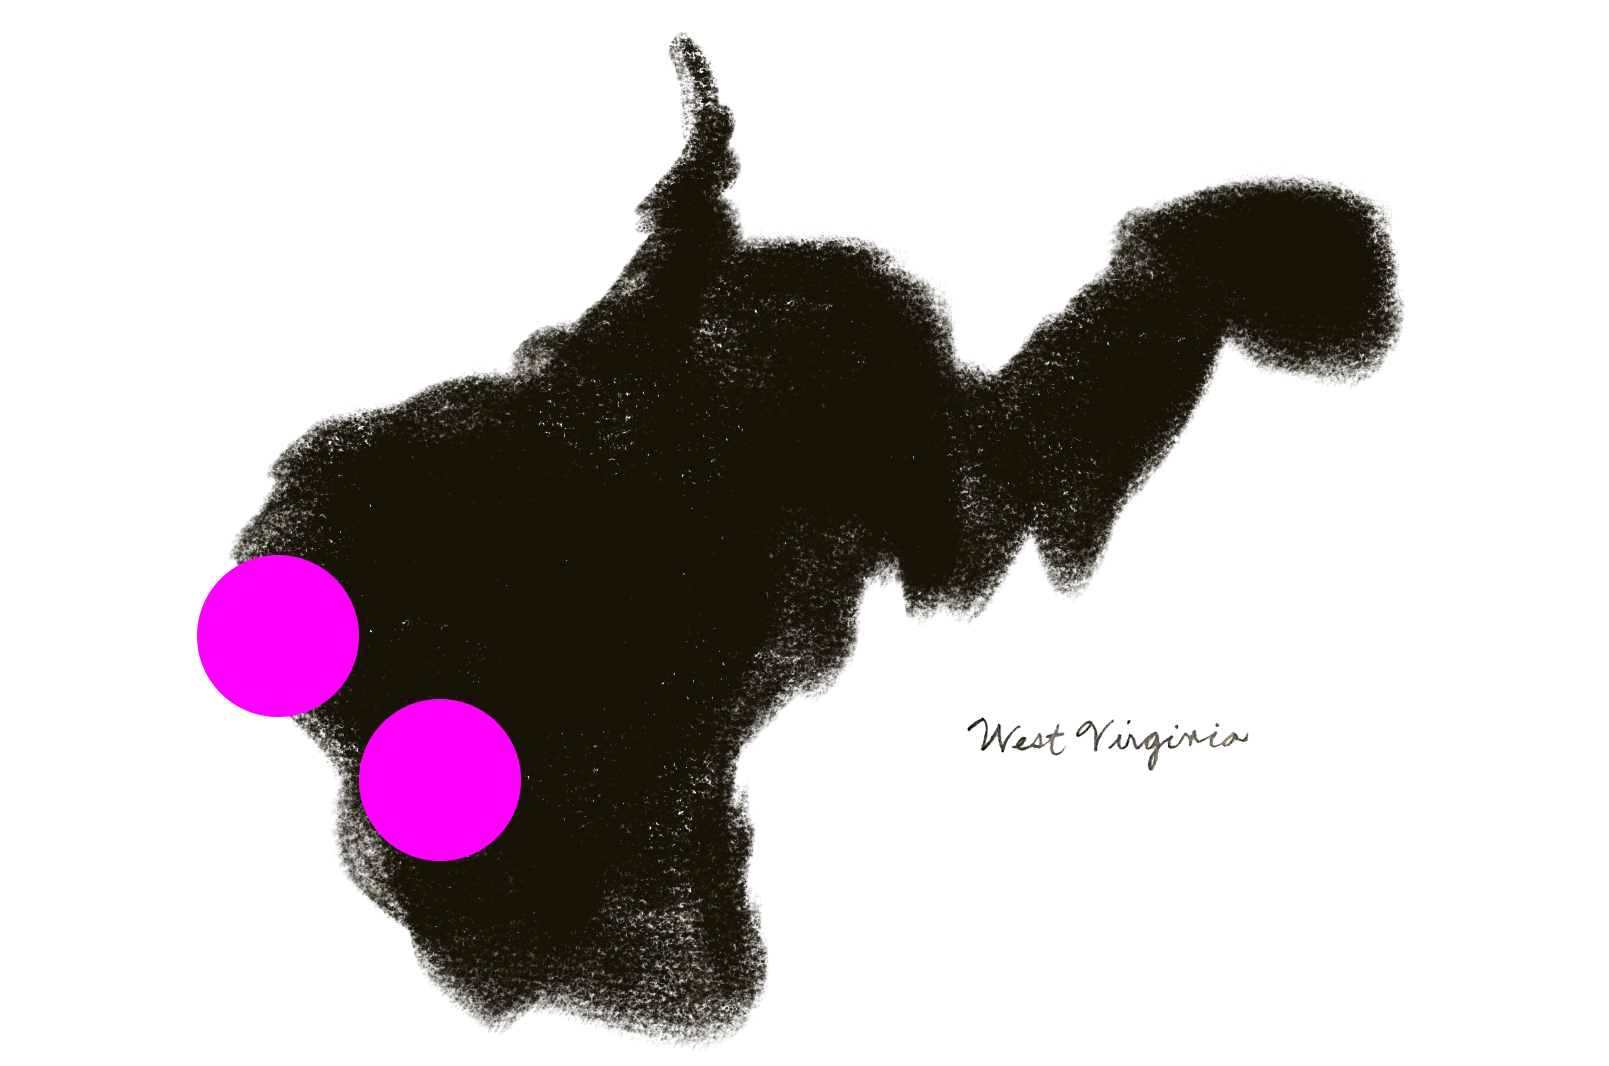
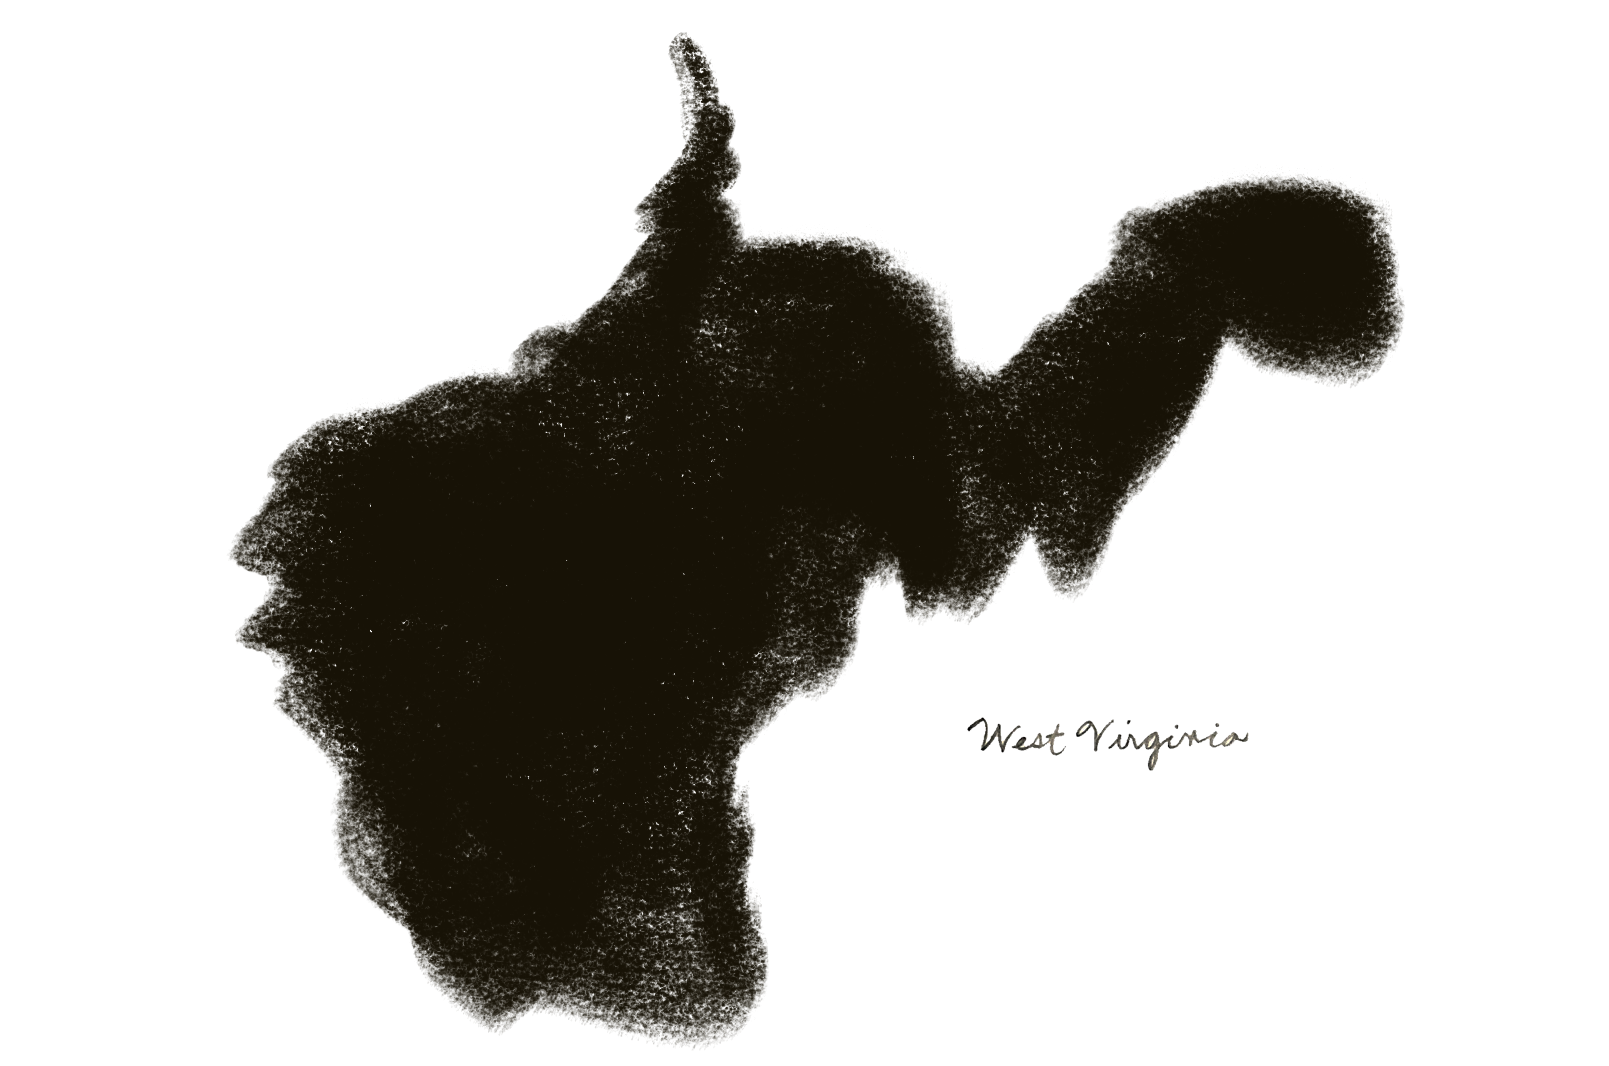
new new

Changed region(s): [[0.1243, 0.4953, 0.3418, 0.8049]]

diff --git a/mich.html b/mich.html
@@ -17,7 +17,7 @@
             margin: 0px; 
             width: 100vw; 
             font-family: baskerville; 
-            background-color: #F5F5F5; 
+            background-color: #ebeae1ff; 
         } 
         @keyframes fadeInAnimation { 
             0% { 
@@ -155,12 +155,23 @@
 		/*color: grey; */
 	}
 	#dot-01{
-		position: absolute;
-    background-color: #00FF00;
-    top: 10vw;
-    left: 13vw;
+		position: absolute;    
+   		top: 10vw;
+    	left: 13vw;
 	}
+	#dot-02{
+		position: absolute;    
+    	margin-left: 41vw;
+    	margin-top: 0vh; 
+
+	}
+	#dot-03{
+		position: absolute;
+    	margin-left: 53vw;
+    	margin-top: 8vh;
+    }
 	.dot {	
+		background-color: #00FF00;
 	  width: 5.5vw;
 	  height: 5.5vw;
 	  border-radius: 8vw;
@@ -173,8 +184,8 @@
 		margin-bottom: 15vh; 
 	}
 	#state img{
-		width: 65%; 
-		margin-left: 30%; 
+		width: 75%; 
+		margin-left: 12.5%; 
 
 	}
 	#copyright{
@@ -256,7 +267,7 @@
     hyphens: auto; 
     margin-top: 10vh; 
     margin-left: 10vw;
-    margin-bottom: -15vh;
+    margin-bottom: 15vh;
     font-size: 1.3vw;
     line-height: 1.8vw; 
   }
@@ -453,13 +464,16 @@
 <div class="timeline02"></div>
 <a href="index.html"><img id="close" src="images/close.png"></a>
 
+<!-- intro -->
+
 <img id="title" src="images/michigan-01.png">
 
-<p id="blurb-01">Lorem ipsum dolor sit amet, consectetuer adipiscing elit, sed diam nonummy nibh euismod tincidunt ut laoreet dolore magna aliquam erat volutpat. Ut wisi enim ad minim veniam, quis nostrud exerci tation ullamcorper suscipit lobortis nisl ut aliquip ex ea commodo consequat. 
-	<br><br>
-	       <img id="words-01" src="images/writing-01.jpg">
+		<p id="blurb-01">Lorem ipsum dolor sit amet, consectetuer adipiscing elit, sed diam nonummy nibh euismod tincidunt ut laoreet dolore magna aliquam erat volutpat. Ut wisi enim ad minim veniam, quis nostrud exerci tation ullamcorper suscipit lobortis nisl ut aliquip ex ea commodo consequat. 
+		<br><br>
+	     <img id="words-01" src="images/writing-01.jpg">
 </p>
 
+<!-- row 01 -->
 
 <div class="row">
 	<div class="block-01">
@@ -478,14 +492,22 @@
 	</div>
 </div>
 
+<!-- blurb  -->
+
 <p id="blurb-02">Lorem ipsum dolor sit amet, consectetuer adipiscing elit, sed diam nonummy nibh euismod tincidunt ut laoreet dolore magna aliquam erat volutpat. Ut wisi enim ad minim veniam, quis nostrud exerci tation ullamcorper suscipit lobortis nisl ut aliquip ex ea commodo consequat. Duis autem vel eum iriure dolor in hendrerit in vulputate velit esse molestie consequat
 	<br><br>
 	       <img id="words-02" src="images/writing-02.jpg">
 	</p>
+
+<!-- drawing of state -->
+
 <div id="state">
-	
-		<img id="wv-image-01" src="images/wv-map.png">
+	<div id="dot-02" class="dot"></div>
+	<div id="dot-03" class="dot"></div>
+		<img id="state-image-01" src="images/mich-map.png">
 </div>
+
+<!-- row 02 -->
 
 <div class="row">
 	<div class="block-01">

diff --git a/nm.html b/nm.html
@@ -17,7 +17,7 @@
             margin: 0px; 
             width: 100vw; 
             font-family: baskerville; 
-            background-color: #F5F5F5; 
+            background-color: #ebeae1ff; 
         } 
         @keyframes fadeInAnimation { 
             0% { 
@@ -61,6 +61,11 @@
 	 #wv-image-01{
 	 	width: 90%; 
 	 	margin-left: 5%; 
+	 }
+	 #state-image-01{
+
+	 	width: 90%; 
+	 	margin-left: 0%; 
 	 }
 	 .row{
 	 	width: 100vw;
@@ -156,9 +161,22 @@
 	}
 	#dot-01{
 		position: absolute;
-    background-color: #00FFFF;
-    top: 10vw;
-    left: 13vw;
+   		background-color: #00FFFF;
+    	top: 10vw;
+    	left: 13vw;
+	}
+	#dot-02{
+		position: absolute;
+    	background-color: #00FFFF;
+    	margin-left: 41vw;
+    	margin-top: 0vh; 
+
+	}
+	#dot-03{
+		position: absolute;
+    	background-color: #00FFFF;
+    	margin-left: 53vw;
+    	margin-top: 8vh;
 	}
 	.dot {	
 	  width: 5.5vw;
@@ -174,7 +192,7 @@
 	}
 	#state img{
 		width: 65%; 
-		margin-left: 30%; 
+		margin-left: 20%; 
 
 	}
 	#copyright{
@@ -256,7 +274,7 @@
     hyphens: auto; 
     margin-top: 10vh; 
     margin-left: 10vw;
-    margin-bottom: -15vh;
+    margin-bottom: 15vh;
     font-size: 1.3vw;
     line-height: 1.8vw; 
   }
@@ -497,13 +515,16 @@ track{
 	</div>
 </div>
 
-<p id="blurb-02">Lorem ipsum dolor sit amet, consectetuer adipiscing elit, sed diam nonummy nibh euismod tincidunt ut laoreet dolore magna aliquam erat volutpat. Ut wisi enim ad minim veniam, quis nostrud exerci tation ullamcorper suscipit lobortis nisl ut aliquip ex ea commodo consequat. Duis autem vel eum iriure dolor in hendrerit in vulputate velit esse molestie consequat
+		<p id="blurb-02">Lorem ipsum dolor sit amet, consectetuer adipiscing elit, sed diam nonummy nibh euismod tincidunt ut laoreet dolore magna aliquam erat volutpat. Ut wisi enim ad minim veniam, quis nostrud exerci tation ullamcorper suscipit lobortis nisl ut aliquip ex ea commodo consequat. Duis autem vel eum iriure dolor in hendrerit in vulputate velit esse molestie consequat
 	<br><br>
 	       <img id="words-02" src="images/writing-02.jpg">
 	</p>
+
+
 <div id="state">
-	
-		<img id="wv-image-01" src="images/wv-map.png">
+	<div id="dot-02" class="dot"></div>
+	<div id="dot-03" class="dot"></div>
+		<img id="state-image-01" src="images/nm-map.png">
 </div>
 
 <div class="row">

diff --git a/wv.html b/wv.html
@@ -17,7 +17,7 @@
             margin: 0px; 
             width: 100vw; 
             font-family: baskerville; 
-            background-color: #F5F5F5; 
+            background-color: #ebeae1ff; 
         } 
         @keyframes fadeInAnimation { 
             0% { 
@@ -149,12 +149,23 @@
 		/*color: grey; */
 	}
 	#dot-01{
+		position: absolute;   
+    	top: 10vw;
+    	left: 13vw;
+	}
+	#dot-02{
 		position: absolute;
-    background-color: #FF00FF;
-    top: 10vw;
-    left: 13vw;
+    	margin-left: 41vw;
+    	margin-top: 0vh; 
+
+	}
+	#dot-03{
+		position: absolute;
+    	margin-left: 53vw;
+    	margin-top: 8vh;
 	}
 	.dot {	
+		background-color: #FF00FF;
 	  width: 5.5vw;
 	  height: 5.5vw;
 	  border-radius: 8vw;
@@ -474,8 +485,12 @@
 	<br><br>
 	       <img id="words-02" src="images/writing-02.jpg">
 	</p>
+
+<!-- state drawing	 -->
+
 <div id="state">
-	
+	<div id="dot-02" class="dot"></div>
+	<div id="dot-03" class="dot"></div>
 		<img id="wv-image-01" src="images/wv-map.png">
 </div>
 

diff --git a/index.html b/index.html
@@ -28,7 +28,7 @@ $(document).ready(function(){
 
 <style type="text/css">
 	body{
-		background-color: #F5F5F5; 
+		background-color: #ebeae1ff; 
 	}
 </style>	
 </head>
